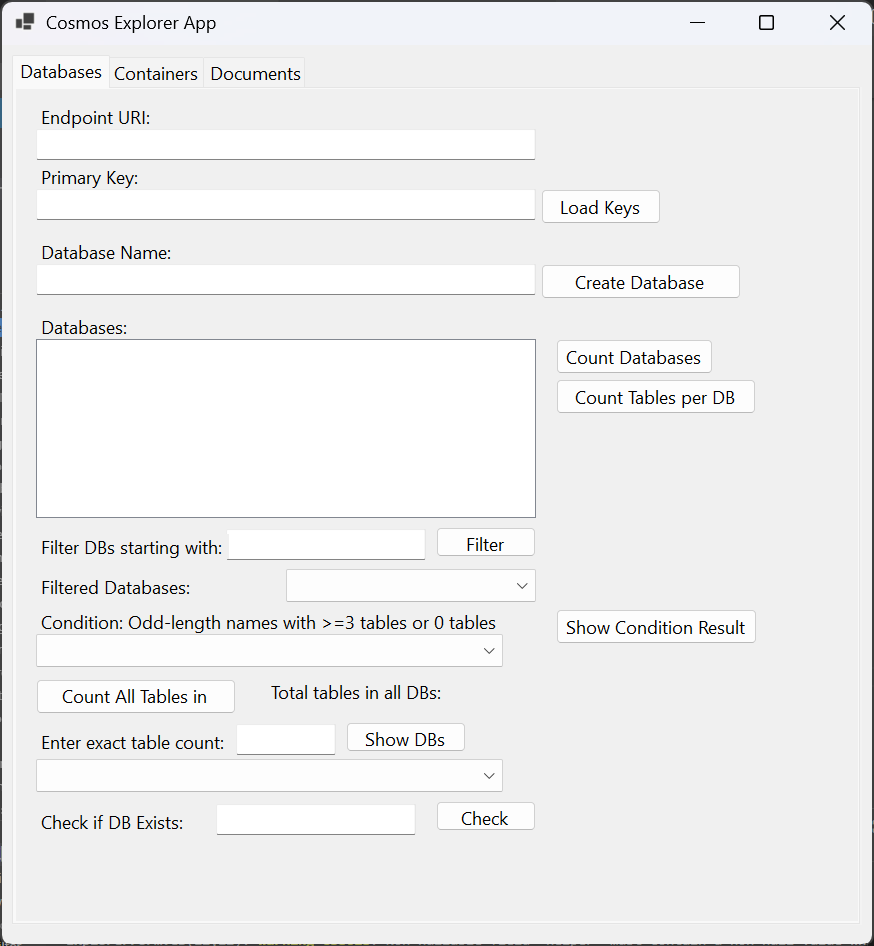
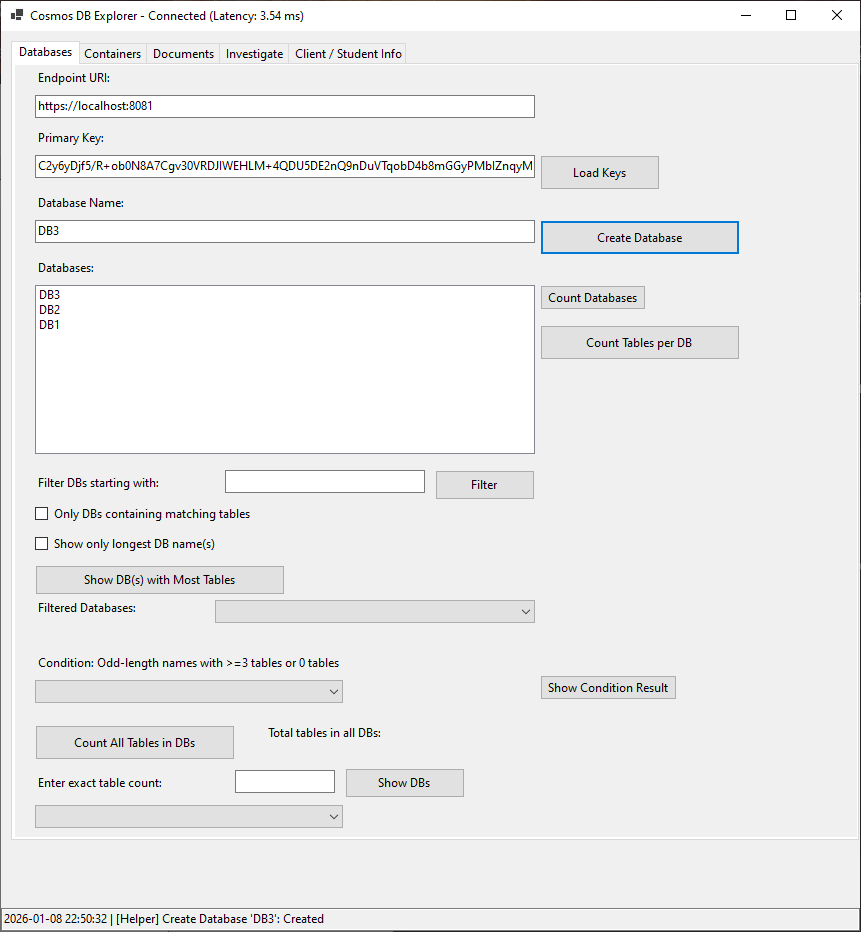
update: README.md , screenshots

diff --git a/README.md b/README.md
@@ -1,61 +1,115 @@
-# Cosmos Explorer App
+# 🌌 Cosmos Explorer App
 
-A Windows Forms app to explore and manage Azure Cosmos DB databases, containers, and documents.
+A comprehensive Windows Forms application built with **.NET** to explore, manage, and audit Azure Cosmos DB resources. This tool goes beyond simple CRUD, offering advanced filtering, data integrity investigation, and batch operations for JSON data.
 
-## Features
+![License](https://img.shields.io/badge/license-MIT-blue.svg) ![Platform](https://img.shields.io/badge/platform-Windows-lightgrey) ![.NET](https://img.shields.io/badge/.NET-10.0-purple)
 
-- **Load Cosmos DB Keys**
+## 🚀 Features
 
-  - Enter your Endpoint URI and Primary Key
-  - Click **Load Keys** to connect.Displays connection speed (latency) after loading.
-- **Database Management**
+### 🔌 Connection & Diagnostics
 
-  - View all databases in the **Databases** tab.
-  - Create new databases by entering a name and clicking **Create Database**.
-  - Refresh database list.
-  - Count total databases using the **DB Count** button next to the list.
-- **Container / Table Management**
+* **Secure Auth**: Connect via Endpoint URI and Primary Key (loadable via `App.config` or manual entry).
+* **Latency Check**: Automatically measures and displays connection latency (ms) upon connecting.
+* **Real-time Logging**: 
+    * **UI Log**: Scrollable activity feed at the bottom of the application.
+    * **File Log**: Automatic log file rotation (e.g., `log_1.txt`, `log_2.txt`) in the `./Logs/` directory.
 
-  - Switch to the **Containers** tab.
-  - Select a database from the dropdown to view its containers (tables).
-  - Create new containers by entering a name and clicking **Create Container**.
-  - Refresh container list with **Refresh Tables** button.
-  - Container creation shows a confirmation message.
-- **Document Management**
+### 🗄 Database Management
 
-  - (Future tab for documents, not yet implemented.)
+* **CRUD**: Create new databases and list existing ones.
+* **Advanced Analytics & Filtering**:
+    * **Count**: Total databases and table counts per database.
+    * **Search**: Filter DBs by prefix.
+    * **Cross-Reference**: Find databases that contain tables with specific naming patterns.
+    * **Logic Filters**: Specialized filters for "Longest DB Names" or complex conditions (e.g., odd-length names with specific table counts).
+    * **Existence Check**: Quick "Green/Red" visual check to see if a specific DB exists.
 
-## Screenshots
+### 📦 Container (Table) Operations
 
-### Databases Tab
+* **Management**: Create new containers within selected databases.
+* **Global Table Search**: Search for a specific table name across *all* databases in the account.
+* **Name Filtering**: Filter tables based on character length.
+* **Stats**: View table counts for specific DBs or the entire account.
 
-![Databases Tab][dbtab]
+### 🕵 Investigation Module
 
-### Containers Tab
+A dedicated tab for data integrity and auditing:
 
-![Containers Tab][ctab]
+* **Target Verification**: Validates the existence of Database, Table, and Document ID with visual status indicators.
+* **Field Matching**: Validate up to 3 specific fields (Key/Value pairs) within a document to ensure data consistency.
+* **Content logic**: Specifically parses and counts items in arrays (e.g., counting a student's `courses`).
+* **Result View**: Displays pass/fail status for matches and renders the raw JSON for inspection.
 
-## Notes
+### 🧑🎓 Client & Data Editor
 
-- Requires **.NET 6+** or later.
-- Uses **Microsoft.Azure.Cosmos** SDK.
-- Connection speed is measured after loading keys and displayed in milliseconds.
+A dynamic entity editor supporting different data models:
 
-## Usage
+* **Dynamic UI**: Toggles input fields between **Student Mode** (ID, Courses) and **Business Mode** (Dealer Num, Products, Branches).
+* **JSON Operations**:
+    * **Import**: Load JSON directly from `.json` files.
+    * **Editor**: Integrated RichTextBox to view/edit JSON before uploading.
+    * **Batch Insert**: Detects if the input is a JSON Array or Object. Automatically handles batch inserts and skips existing IDs.
+* **Direct Cloud Access**: Read, Update, and Delete documents directly via the UI.
 
-1. Clone the repository:
+---
 
-```bash
-git clone https://github.com/NatiG7/CosmosExplorerApp.git
+## 🛠 Setup & Configuration
+
+### Prerequisites
+
+* Windows 10/11
+* .NET SDK (6.0 or later)
+* Azure Cosmos DB Account (SQL API)
+
+### Configuration
+
+The app uses `App.config` (or `appsettings`) for default credentials and logging paths.
+
+```xml
+<appSettings>
+    <add key="EndPointUri" value="YOUR_COSMOS_URI" />
+    <add key="PrimaryKey" value="YOUR_COSMOS_KEY" />
+    <add key="log_dir" value="./Logs/" />
+</appSettings>
 ```
 
-```bash
-dotnet restore
-```
+---
 
-```bash
-dotnet run
-```
+## 🖥 Usage Guide
 
-[dbtab]: Screenshots/databases_tab.png
-[ctab]: Screenshots/tables_tab.png
+1.  **Connect**: On the **Databases** tab, click `Load Keys` to initialize the client.
+2.  **Explore**: Use the tabs to navigate between Databases, Containers, and Documents.
+3.  **Insert Data**:
+    * Go to **Client / Student Info**.
+    * Select "Student" or "Business" mode.
+    * Fill in fields or load a JSON file.
+    * Click `Insert to Cloud`.
+4.  **Audit**:
+    * Go to **Investigate**.
+    * Enter the target DB, Table, and Doc ID.
+    * (Optional) Enter field names and expected values (e.g., `status` : `active`).
+    * Click `Investigate Document` to see a full report.
+
+---
+
+## 📸 Screenshots
+
+### Databases & Filtering
+
+![Database Tab](Screenshots/databases_tab.png)
+![Tables Tab](Screenshots/tables_tab.png)
+![Documents Tab](Screenshots/documents_tab.png)
+
+### Investigation & Integrity Check
+
+*Visual verification of document fields and existence.*
+
+### Data Entry & JSON Batching
+
+*Dynamic forms for Students/Businesses and raw JSON editing.*
+
+---
+
+## 📝 License
+
+This project is licensed under the MIT License.
